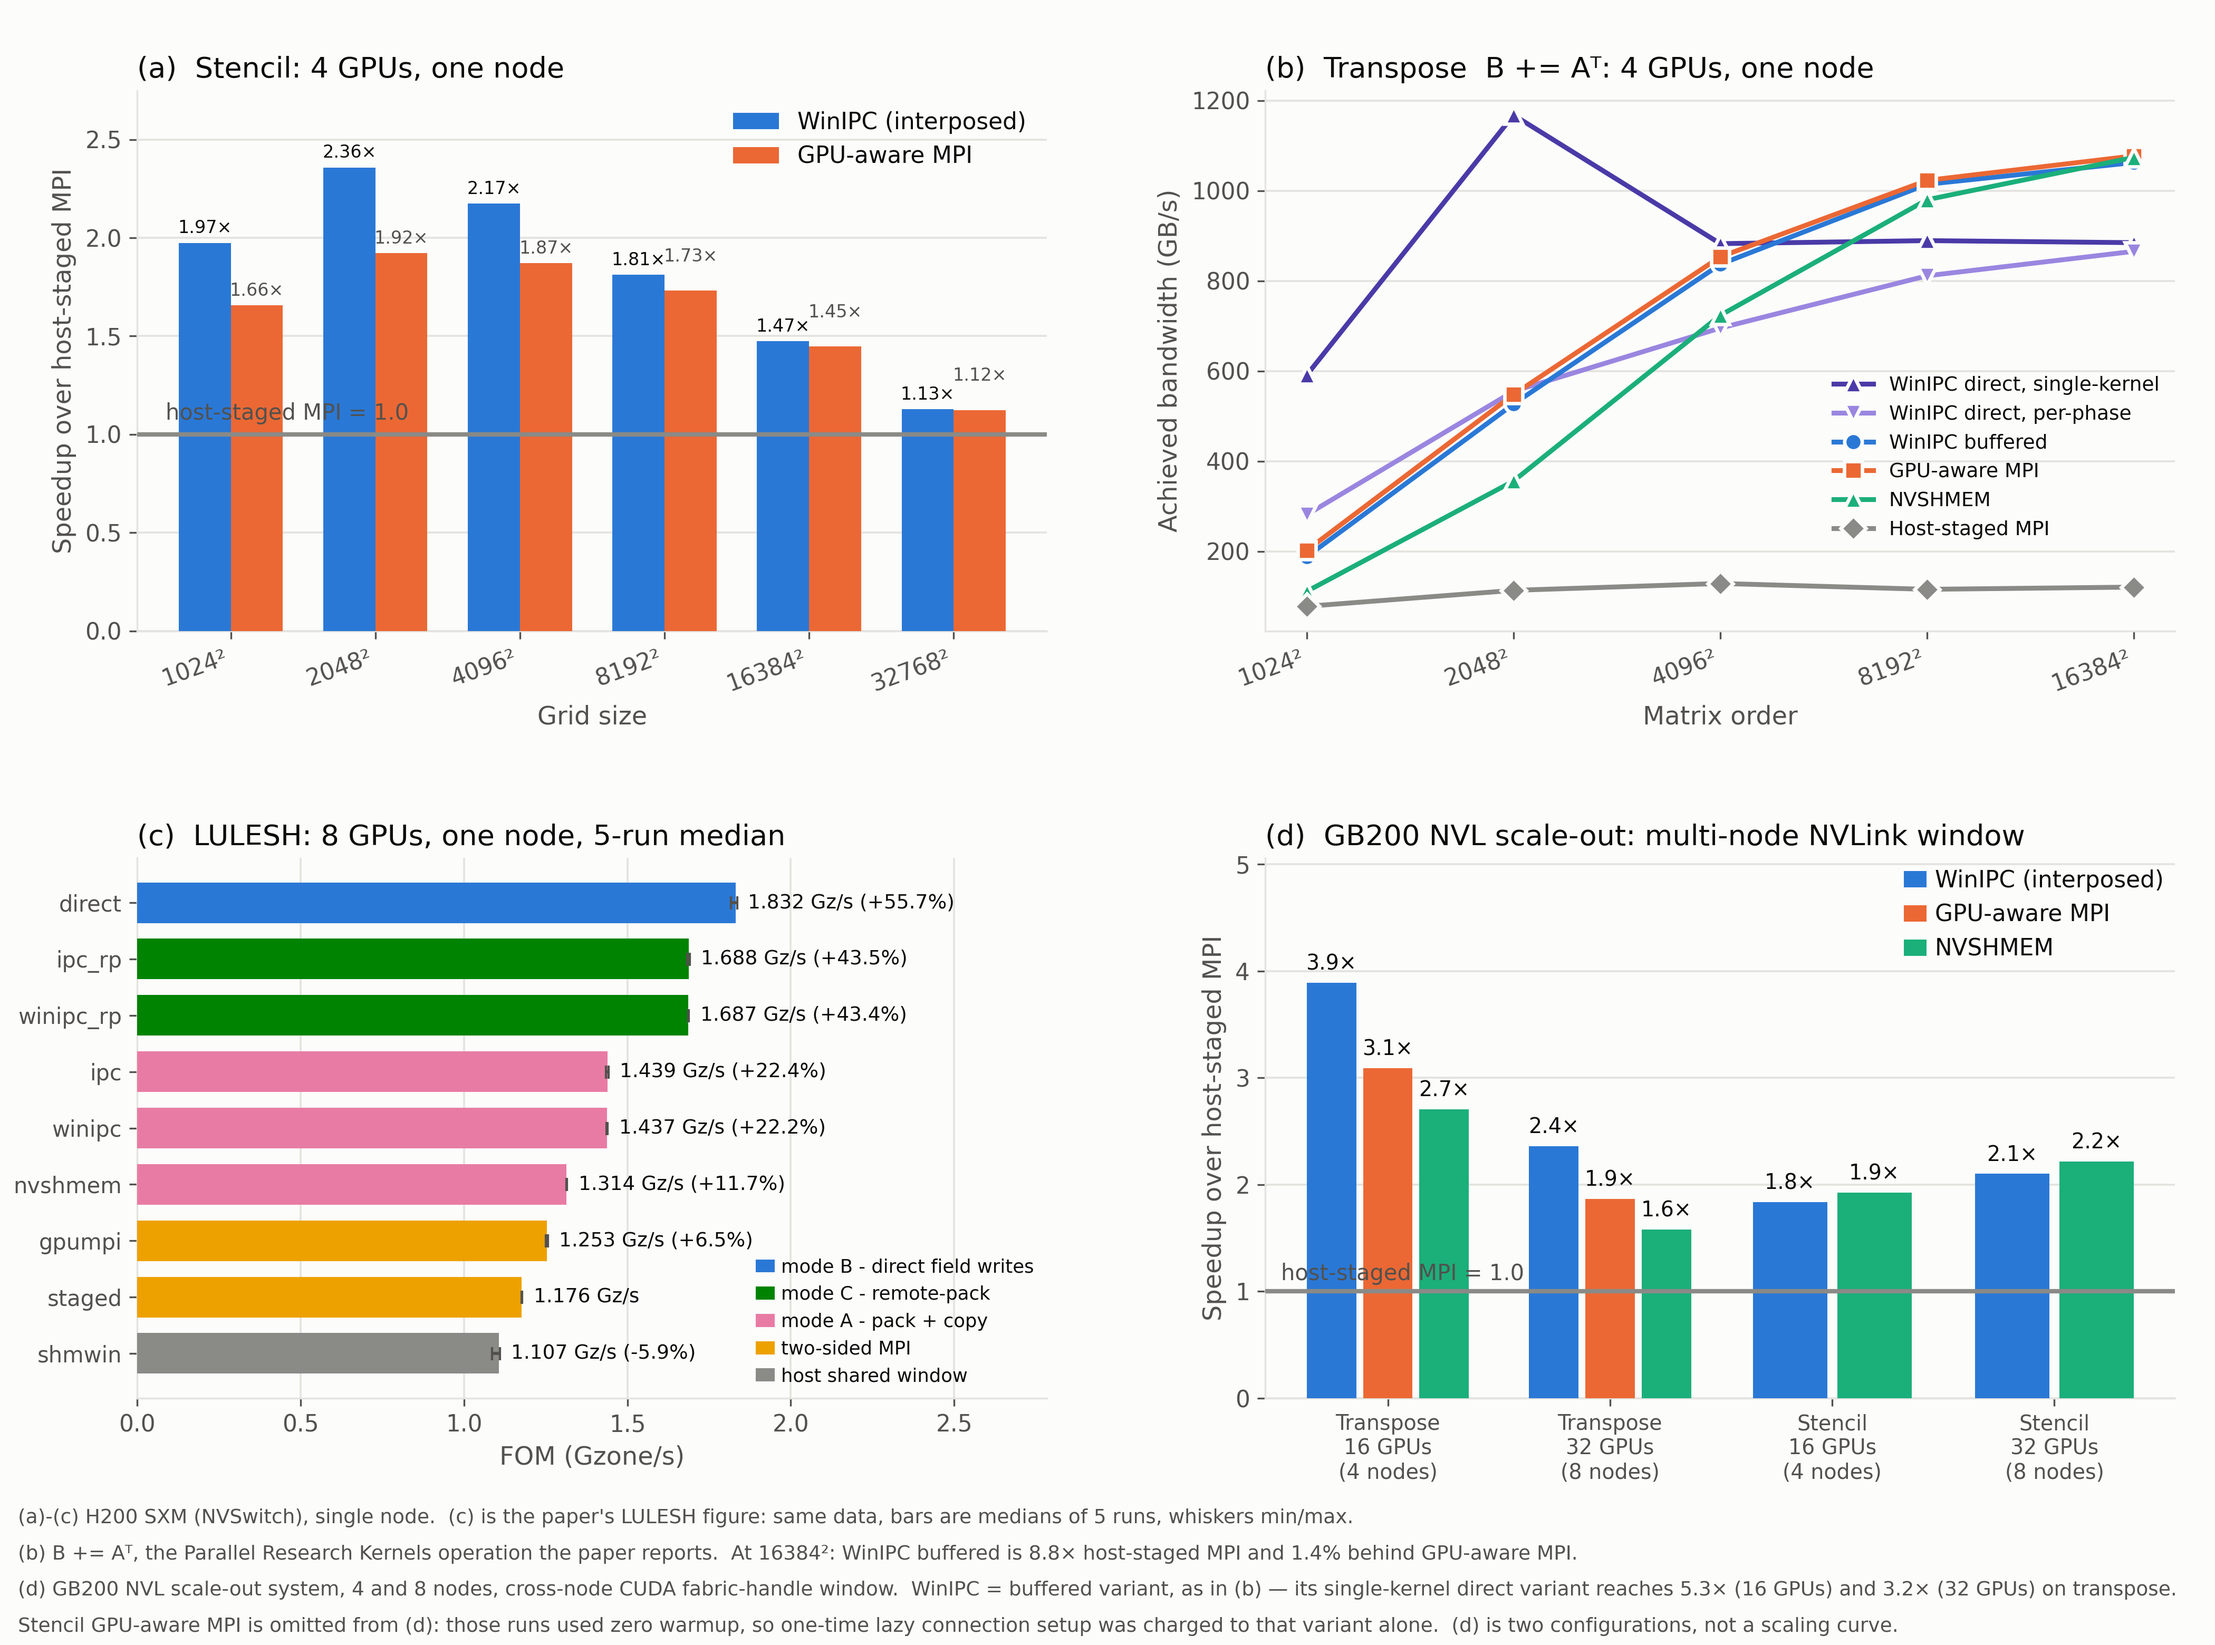
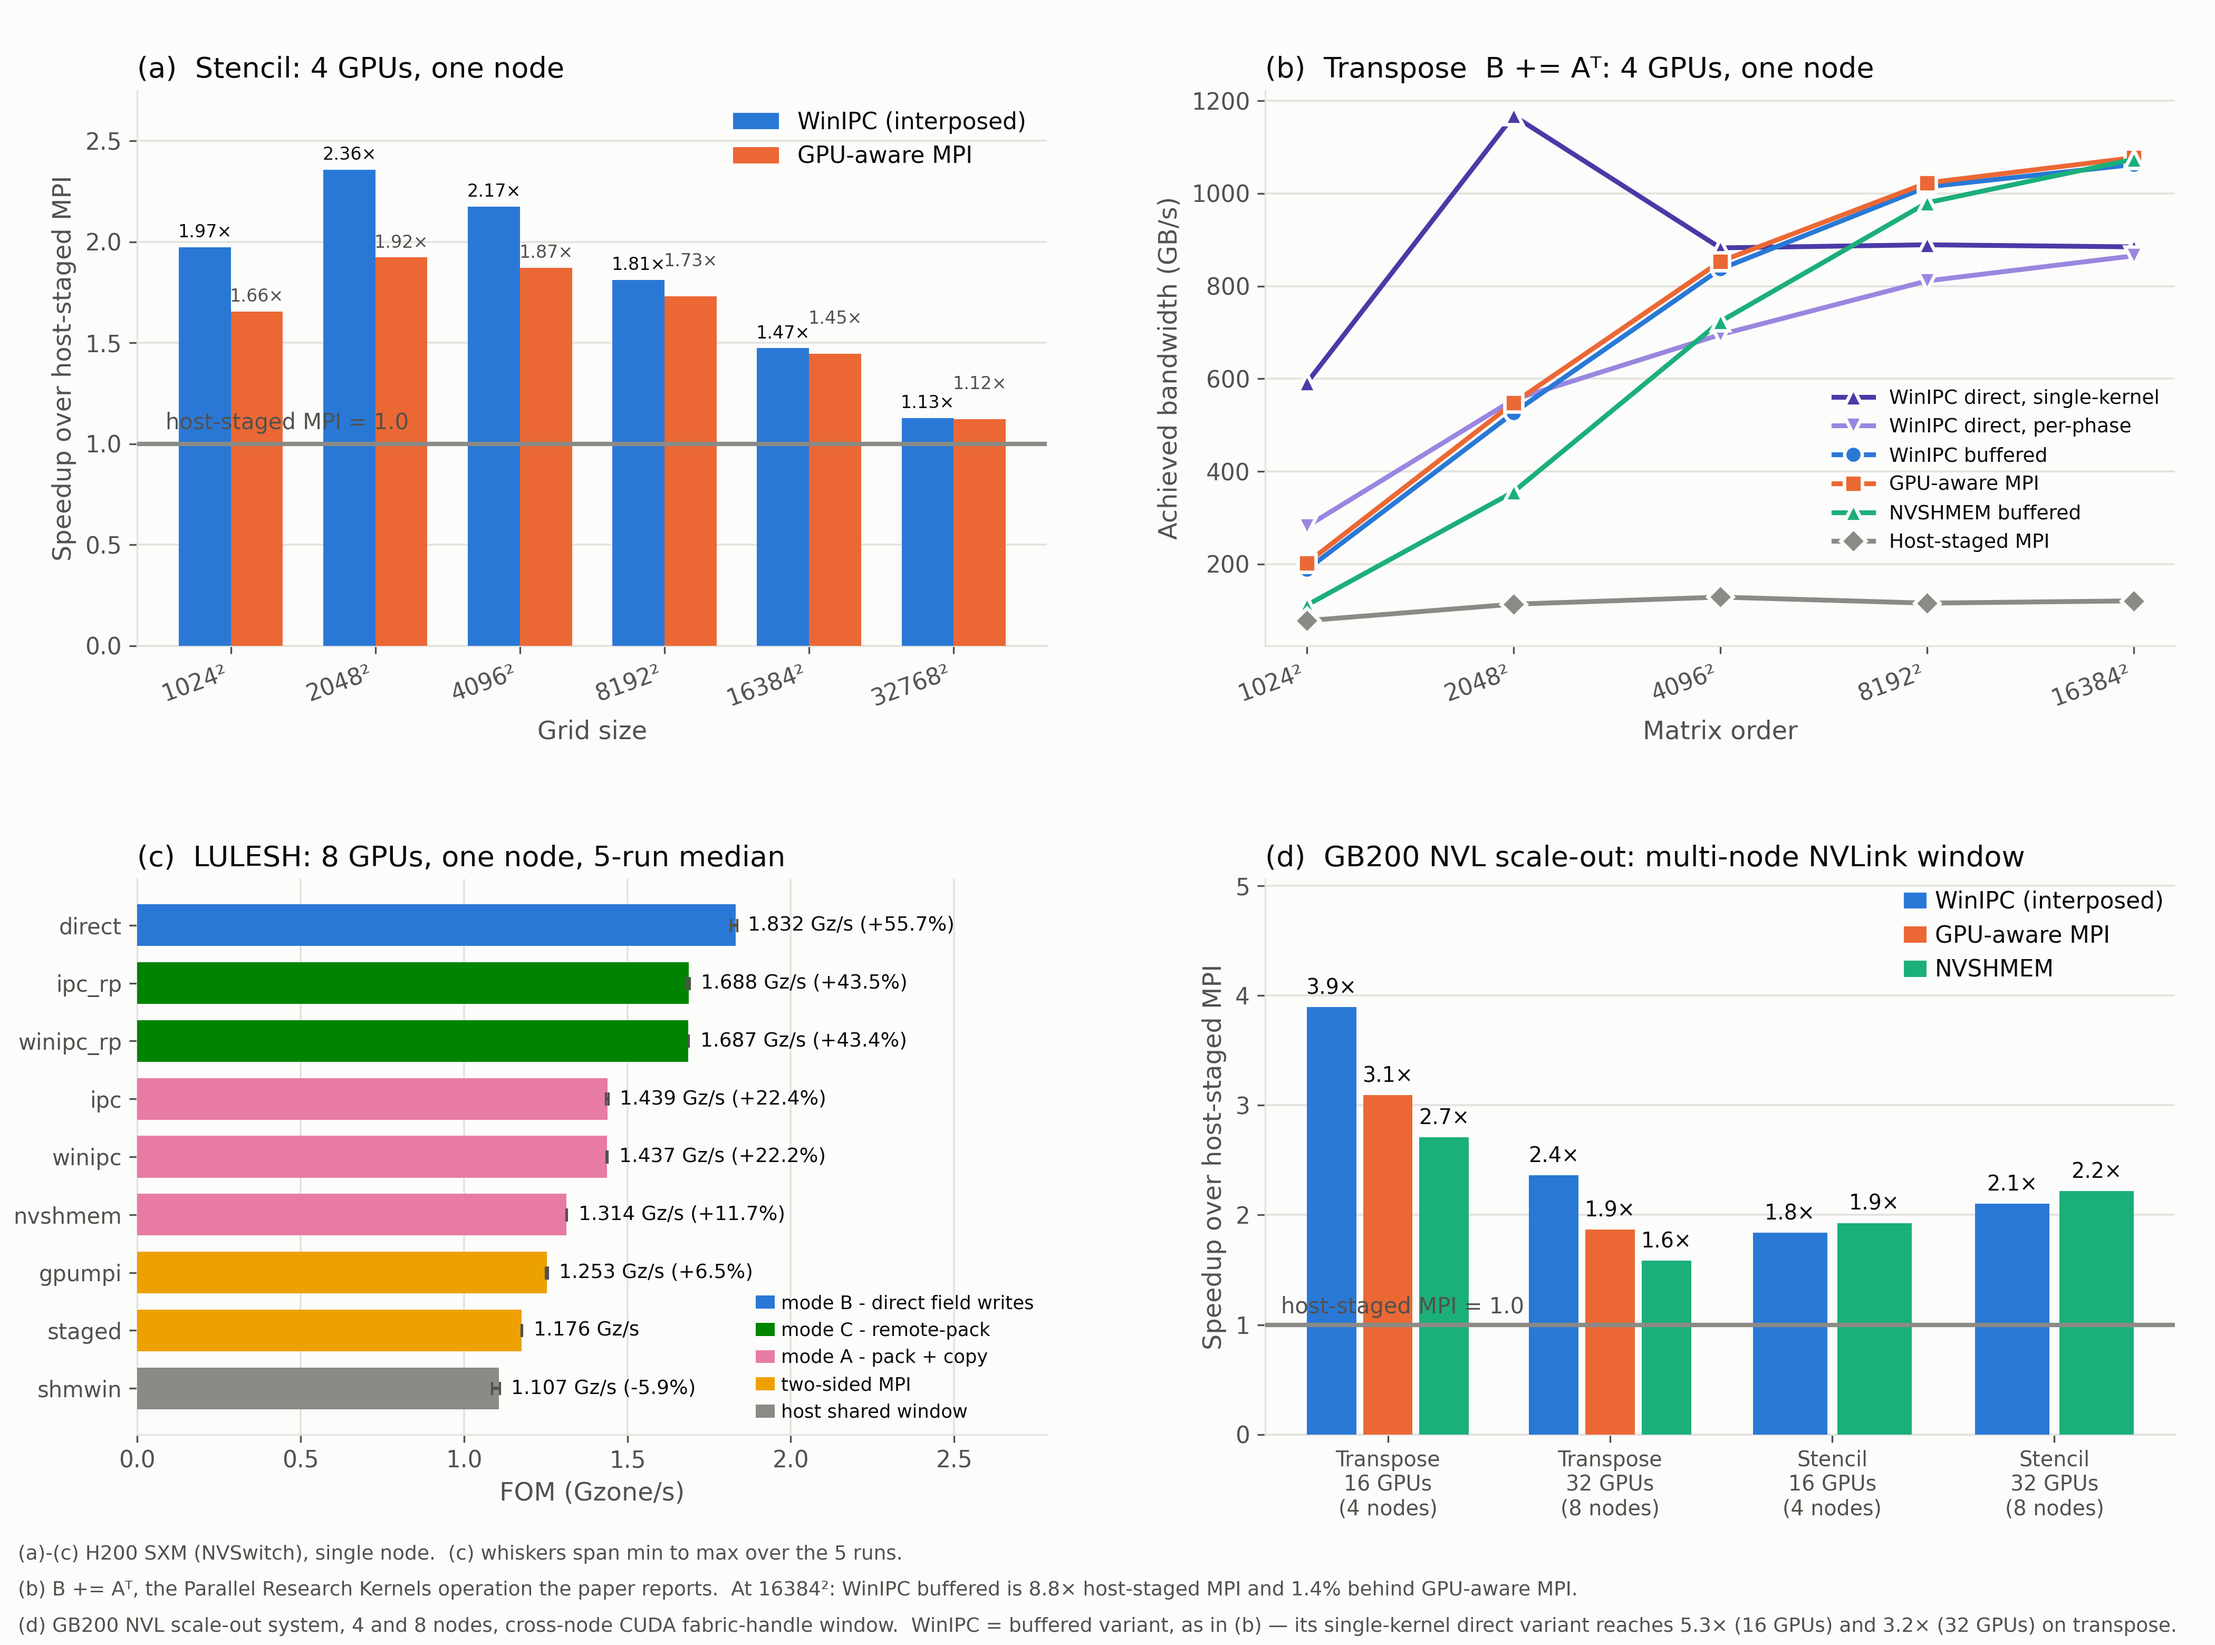
Poster: name the NVSHMEM variant in (b), trim the caption
(b)'s legend said "NVSHMEM" for what is the buffered variant, next to two
WinIPC curves that do say which variant they are. (d)'s legend stays unlabelled
on purpose: its transpose bars are NVSHMEM buffered but its stencil bars are
the only NVSHMEM stencil variant there is, so one label cannot be right for
both halves.

Caption drops the (c) sentence, which repeated the panel's own header, and the
two notes explaining why stencil GPU-aware MPI is absent from (d) and that (d)
is not a scaling curve -- both belong in the talk rather than under the figure.
Kept the whiskers note, which is the one thing in that sentence the header does
not already say. Three lines now, ordered platform then (b) then (d).

Also drops a stale comment claiming the absent (d) series is drawn as a "not
measured" ghost bar; it takes no slot at all since a5be2e4.

diff --git a/plots/make_poster_figure.py b/plots/make_poster_figure.py
@@ -302,8 +302,8 @@ GB200_PLAN = {
     "stencil": {
         "baseline": "host-staged MPI",
         # GPU-aware MPI is absent on purpose (warmup=0 artifact, see the top
-        # of this file). It is marked "not measured" in the panel rather than
-        # dropped silently, because a missing bar in a group reads as a zero.
+        # of this file). The stencil groups simply draw two bars; None here
+        # takes no slot at all.
         "series": [("WinIPC",  WINIPC),
                    (None,      GPUMPI),
                    ("NVSHMEM", NVSHMEM)],
@@ -382,7 +382,7 @@ for key, label, colour, marker in [
     ("winipc_p", "WinIPC direct, per-phase",    "#9a86e0", "v"),
     ("winipc",  "WinIPC buffered",              WINIPC,  "o"),
     ("gpumpi",  "GPU-aware MPI",       GPUMPI,  "s"),
-    ("nvshmem", "NVSHMEM",             NVSHMEM, "^"),
+        ("nvshmem", "NVSHMEM buffered",   NVSHMEM, "^"),
     ("staged",  "Host-staged MPI",     STAGED,  "D"),
 ]:
     axb.plot(ORDERS, TRANSPOSE_GBS[key], marker=marker, color=colour,
@@ -521,28 +521,23 @@ axd.legend(handles=[
 # Caption, hard-wrapped by hand. Matplotlib does not wrap fig.text, so a
 # single long string silently runs off the right edge of the canvas -- which
 # it did, truncating the stencil GPU-aware caveat mid-word.
-fig.text(0.008, 0.074,
-         "(a)-(c) H200 SXM (NVSwitch), single node.  (c) is the paper's LULESH "
-         "figure: same data, bars are medians of 5 runs, whiskers min/max.",
-         fontsize=9, color=INK2, ha="left")
 fig.text(0.008, 0.052,
+         "(a)-(c) H200 SXM (NVSwitch), single node.  (c) whiskers span min to "
+         "max over the 5 runs.",
+         fontsize=9, color=INK2, ha="left")
+fig.text(0.008, 0.030,
          "(b) B += Aᵀ, the Parallel Research Kernels operation the paper "
          "reports.  At 16384²: WinIPC buffered is 8.8× host-staged MPI and "
          "1.4% behind GPU-aware MPI.",
          fontsize=9, color=INK2, ha="left")
-fig.text(0.008, 0.030,
+fig.text(0.008, 0.008,
          "(d) GB200 NVL scale-out system, 4 and 8 nodes, cross-node CUDA "
          "fabric-handle window.  WinIPC = buffered variant, as in (b) — its "
          "single-kernel direct variant reaches 5.3× (16 GPUs) and 3.2× "
          "(32 GPUs) on transpose.",
          fontsize=9, color=INK2, ha="left")
-fig.text(0.008, 0.008,
-         "Stencil GPU-aware MPI is omitted from (d): those runs used zero warmup, "
-         "so one-time lazy connection setup was charged to that variant alone.  "
-         "(d) is two configurations, not a scaling curve.",
-         fontsize=9, color=INK2, ha="left")
 
-fig.subplots_adjust(left=0.062, right=0.982, top=0.945, bottom=0.150)
+fig.subplots_adjust(left=0.062, right=0.982, top=0.945, bottom=0.128)
 
 for path, kwargs in [("poster_summary.pdf", dict(metadata={"CreationDate": None})),
                      ("poster_summary.png", dict(dpi=300))]:
